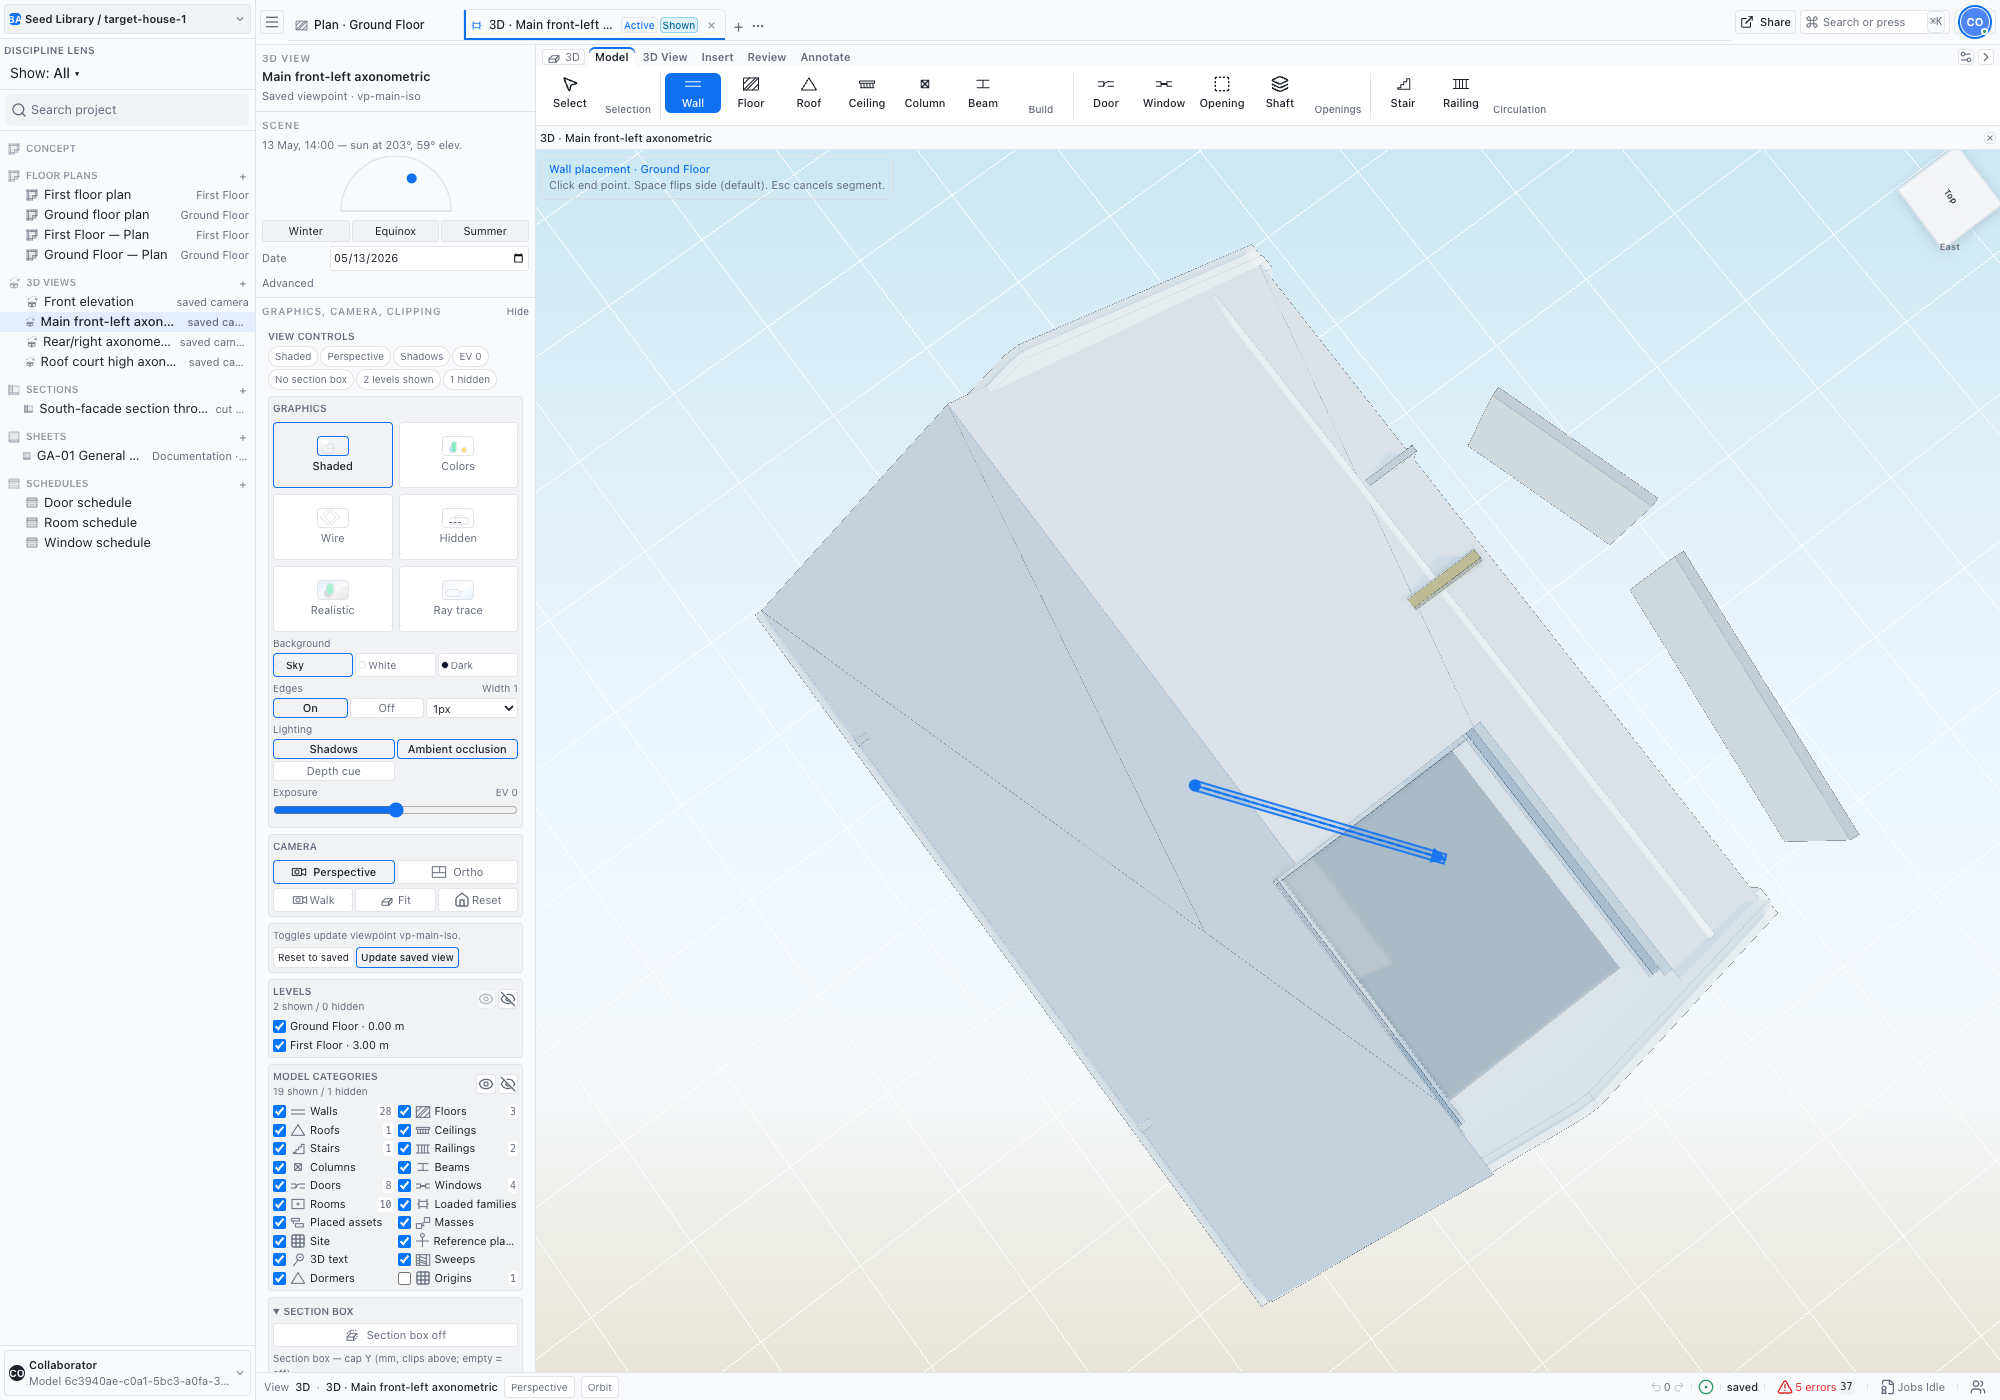
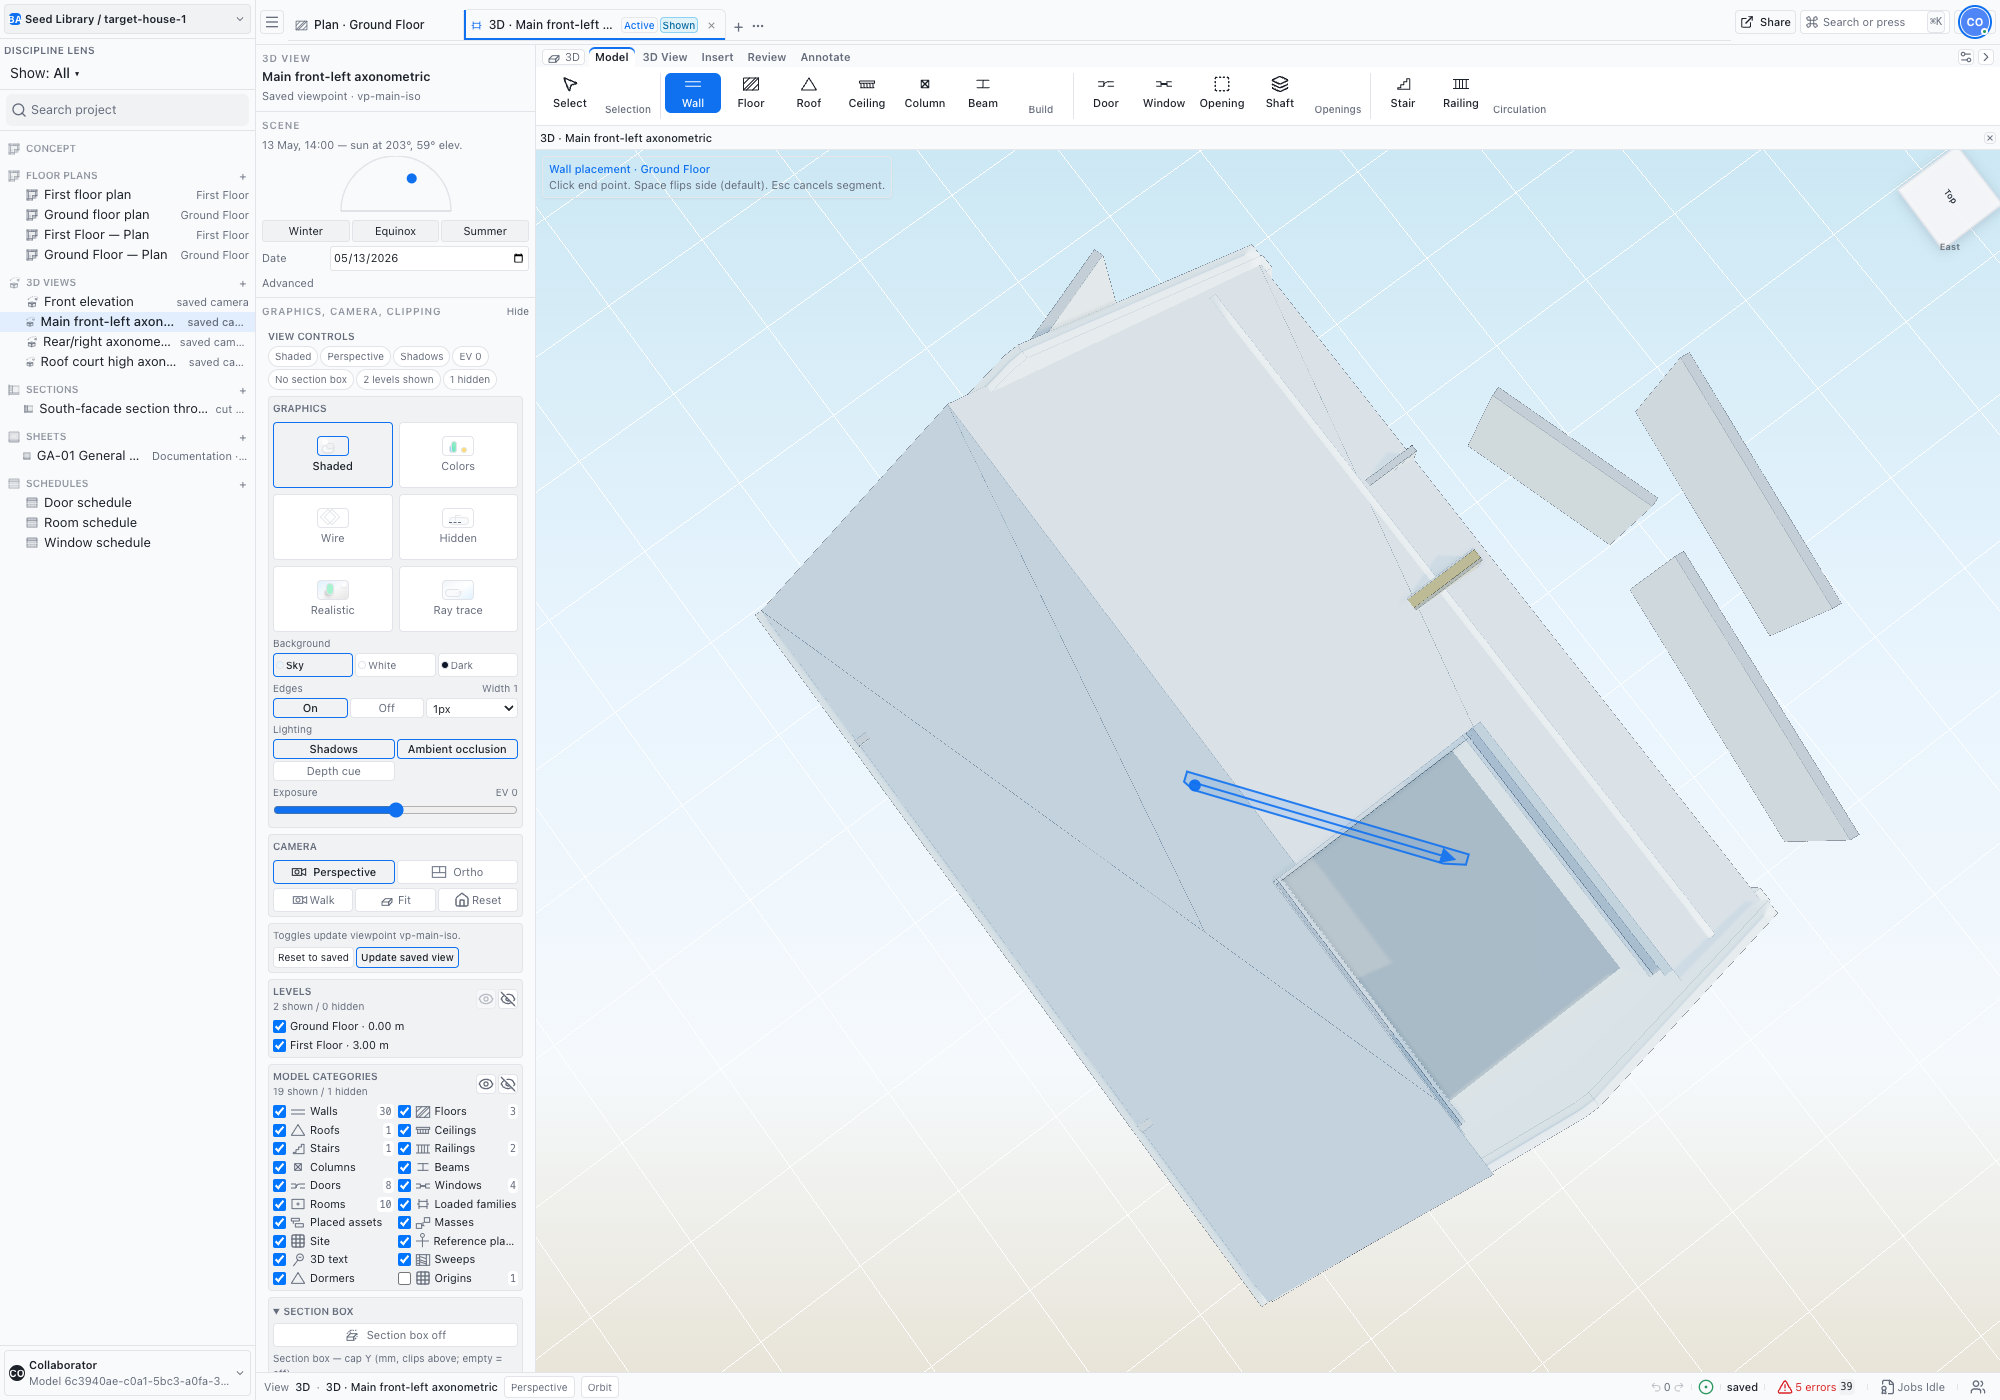
Show full-height 3D wall preview before commit
Entire-Checkpoint: 9c561aeb82fd

diff --git a/packages/web/src/Viewport.tsx b/packages/web/src/Viewport.tsx
@@ -1226,6 +1226,7 @@ export function Viewport({ wsConnected, onSemanticCommand, remoteSelections }: P
       start: { xMm: number; yMm: number },
       end: { xMm: number; yMm: number },
       levelElevationMm: number,
+      heightMm: number,
       flip: boolean,
       locationLine: string | null | undefined,
       thicknessMm: number,
@@ -1248,27 +1249,63 @@ export function Viewport({ wsConnected, onSemanticCommand, remoteSelections }: P
       const offsetMm = wallLocationLineOffsetFrac(effectiveLocationLine) * thickMm;
       const plus = offsetMm + thickMm / 2;
       const minus = offsetMm - thickMm / 2;
-      const zMm = levelElevationMm + 10;
-      const corners = [
-        { xMm: actualStart.xMm + nx * plus, yMm: actualStart.yMm + ny * plus, zMm },
-        { xMm: actualEnd.xMm + nx * plus, yMm: actualEnd.yMm + ny * plus, zMm },
-        { xMm: actualEnd.xMm + nx * minus, yMm: actualEnd.yMm + ny * minus, zMm },
-        { xMm: actualStart.xMm + nx * minus, yMm: actualStart.yMm + ny * minus, zMm },
+      const bottomZMm = levelElevationMm;
+      const topZMm = levelElevationMm + Math.max(250, heightMm);
+      const footprint = [
+        { xMm: actualStart.xMm + nx * plus, yMm: actualStart.yMm + ny * plus },
+        { xMm: actualEnd.xMm + nx * plus, yMm: actualEnd.yMm + ny * plus },
+        { xMm: actualEnd.xMm + nx * minus, yMm: actualEnd.yMm + ny * minus },
+        { xMm: actualStart.xMm + nx * minus, yMm: actualStart.yMm + ny * minus },
       ];
-      const outline = corners
+      const volumePoints = [
+        ...footprint.map((point) => ({ ...point, zMm: bottomZMm })),
+        ...footprint.map((point) => ({ ...point, zMm: topZMm })),
+      ];
+      const projectedVolume = volumePoints
         .map((point) => projectSemanticPointToScreen(point, rect))
         .filter((point): point is ScreenPoint => point !== null);
-      if (outline.length !== 4) return null;
+      if (projectedVolume.length < 3) return null;
+      const outline = convexHullScreenPoints(projectedVolume);
+      if (outline.length < 3) return null;
+      const directionZMm = bottomZMm + Math.min(Math.max(800, heightMm * 0.45), heightMm);
       const directionStart = projectSemanticPointToScreen(
-        { xMm: actualStart.xMm, yMm: actualStart.yMm, zMm },
+        { xMm: actualStart.xMm, yMm: actualStart.yMm, zMm: directionZMm },
         rect,
       );
       const directionEnd = projectSemanticPointToScreen(
-        { xMm: actualEnd.xMm, yMm: actualEnd.yMm, zMm },
+        { xMm: actualEnd.xMm, yMm: actualEnd.yMm, zMm: directionZMm },
         rect,
       );
       if (!directionStart || !directionEnd) return null;
       return { outline, directionStart, directionEnd };
+    }
+
+    function convexHullScreenPoints(points: ScreenPoint[]): ScreenPoint[] {
+      const sorted = [...points].sort((a, b) => (a.x === b.x ? a.y - b.y : a.x - b.x));
+      const cross = (origin: ScreenPoint, a: ScreenPoint, b: ScreenPoint) =>
+        (a.x - origin.x) * (b.y - origin.y) - (a.y - origin.y) * (b.x - origin.x);
+      const lower: ScreenPoint[] = [];
+      for (const point of sorted) {
+        while (
+          lower.length >= 2 &&
+          cross(lower[lower.length - 2]!, lower[lower.length - 1]!, point) <= 0
+        )
+          lower.pop();
+        lower.push(point);
+      }
+      const upper: ScreenPoint[] = [];
+      for (let i = sorted.length - 1; i >= 0; i -= 1) {
+        const point = sorted[i]!;
+        while (
+          upper.length >= 2 &&
+          cross(upper[upper.length - 2]!, upper[upper.length - 1]!, point) <= 0
+        )
+          upper.pop();
+        upper.push(point);
+      }
+      lower.pop();
+      upper.pop();
+      return [...lower, ...upper];
     }
 
     function hostedPreviewSegment(
@@ -1594,16 +1631,6 @@ export function Viewport({ wsConnected, onSemanticCommand, remoteSelections }: P
           return true;
         }
         if (tool === 'wall') {
-          const clickRect = renderer.domElement.getBoundingClientRect();
-          const preview = wallDraftPreview(
-            start,
-            end,
-            levelInfo.elevationMm,
-            wallFlipNextSegment,
-            useBimStore.getState().wallLocationLine,
-            resolveDraftWallThicknessMm(),
-            clickRect,
-          );
           const runtime = useBimStore.getState();
           const flip = wallFlipNextSegment;
           const effectiveLocationLine = flip
@@ -2064,6 +2091,7 @@ export function Viewport({ wsConnected, onSemanticCommand, remoteSelections }: P
                     lineDraftStart.point,
                     projected.point,
                     levelInfo.elevationMm,
+                    useBimStore.getState().wallDrawHeightMm,
                     wallFlipNextSegment,
                     useBimStore.getState().wallLocationLine,
                     resolveDraftWallThicknessMm(),
@@ -3895,16 +3923,18 @@ export function Viewport({ wsConnected, onSemanticCommand, remoteSelections }: P
         authoringOverlay.startScreen &&
         authoringOverlay.currentScreen ? (
           <svg className="pointer-events-none absolute inset-0 z-20 h-full w-full">
-            <line
-              x1={authoringOverlay.startScreen.x}
-              y1={authoringOverlay.startScreen.y}
-              x2={authoringOverlay.currentScreen.x}
-              y2={authoringOverlay.currentScreen.y}
-              stroke="var(--color-accent)"
-              strokeWidth="2"
-              strokeDasharray="6 4"
-              opacity="0.95"
-            />
+            {authoringOverlay.tool !== 'wall' ? (
+              <line
+                x1={authoringOverlay.startScreen.x}
+                y1={authoringOverlay.startScreen.y}
+                x2={authoringOverlay.currentScreen.x}
+                y2={authoringOverlay.currentScreen.y}
+                stroke="var(--color-accent)"
+                strokeWidth="2"
+                strokeDasharray="6 4"
+                opacity="0.95"
+              />
+            ) : null}
             {authoringOverlay.tool === 'wall' &&
             authoringOverlay.wallPreviewOutlineScreen &&
             authoringOverlay.wallPreviewOutlineScreen.length >= 4 ? (

diff --git a/spec/ux-bim-ai-next-tracker.md b/spec/ux-bim-ai-next-tracker.md
@@ -1175,7 +1175,9 @@ Evidence (2026-05-13):
 - Implementation + current evidence (partial):
   - Endpoint fidelity path changed to commit line tools from direct click projection (`end = projected.point`) so commit cannot reuse stale hover point.
   - Added projection stability guard (`mm/px` sensitivity only) for non-wall plane-based 3D tools before accepting clicks; the earlier camera-component threshold was removed because it blocked valid wall drafting in normal 3D/elevation-like views.
-  - Replaced wall end-point re-projection with a first-click screen-to-level draft basis. Preview and commit now use the same basis, so screen-right cannot become the opposite committed endpoint direction in elevation-like camera poses.
+  - Replaced wall end-point re-projection with a first-click screen-to-level draft basis. Preview and commit now use the same basis.
+  - Replaced flat footprint wall preview with a full-height projected wall-volume silhouette, so elevation-like views show the same visual form that will be committed.
+  - Removed the generic 2D line from wall previews because it could imply a screen direction that the final full-height wall volume would not visually have.
   - Removed the wall-preview readability blocker because it blocked valid elevation-like placement instead of fixing endpoint fidelity.
   - Short wall attempts now clear the stored 3D line draft before returning to `pick-start`.
   - Seeded repro artifacts:
@@ -1183,6 +1185,6 @@ Evidence (2026-05-13):
     - `packages/web/tmp/ux-wall-edgeon-repro-20260513/02-after-commit-attempt.png`
     - `packages/web/tmp/ux-wall-edgeon-repro-20260513/summary.json`
     - 2026-05-13 hotfix rerun confirms wall drafting is reachable again (`createWallCount: 1`).
-    - 2026-05-13 screen-basis rerun confirms a rightward edge-on drag preserves endpoint direction (`rightwardDragPreserved: true`).
+    - 2026-05-13 volume-preview rerun confirms wall drafting remains reachable (`createWallCount: 1`) and the pre-commit wall-volume preview is visible (`wallVolumePreviewVisible: true`).
   - Remaining closure work:
     - tighten camera-pose detection against exact `Front elevation` tab behavior and capture final seeded proof with blocked ambiguous commit + valid oblique commit.
